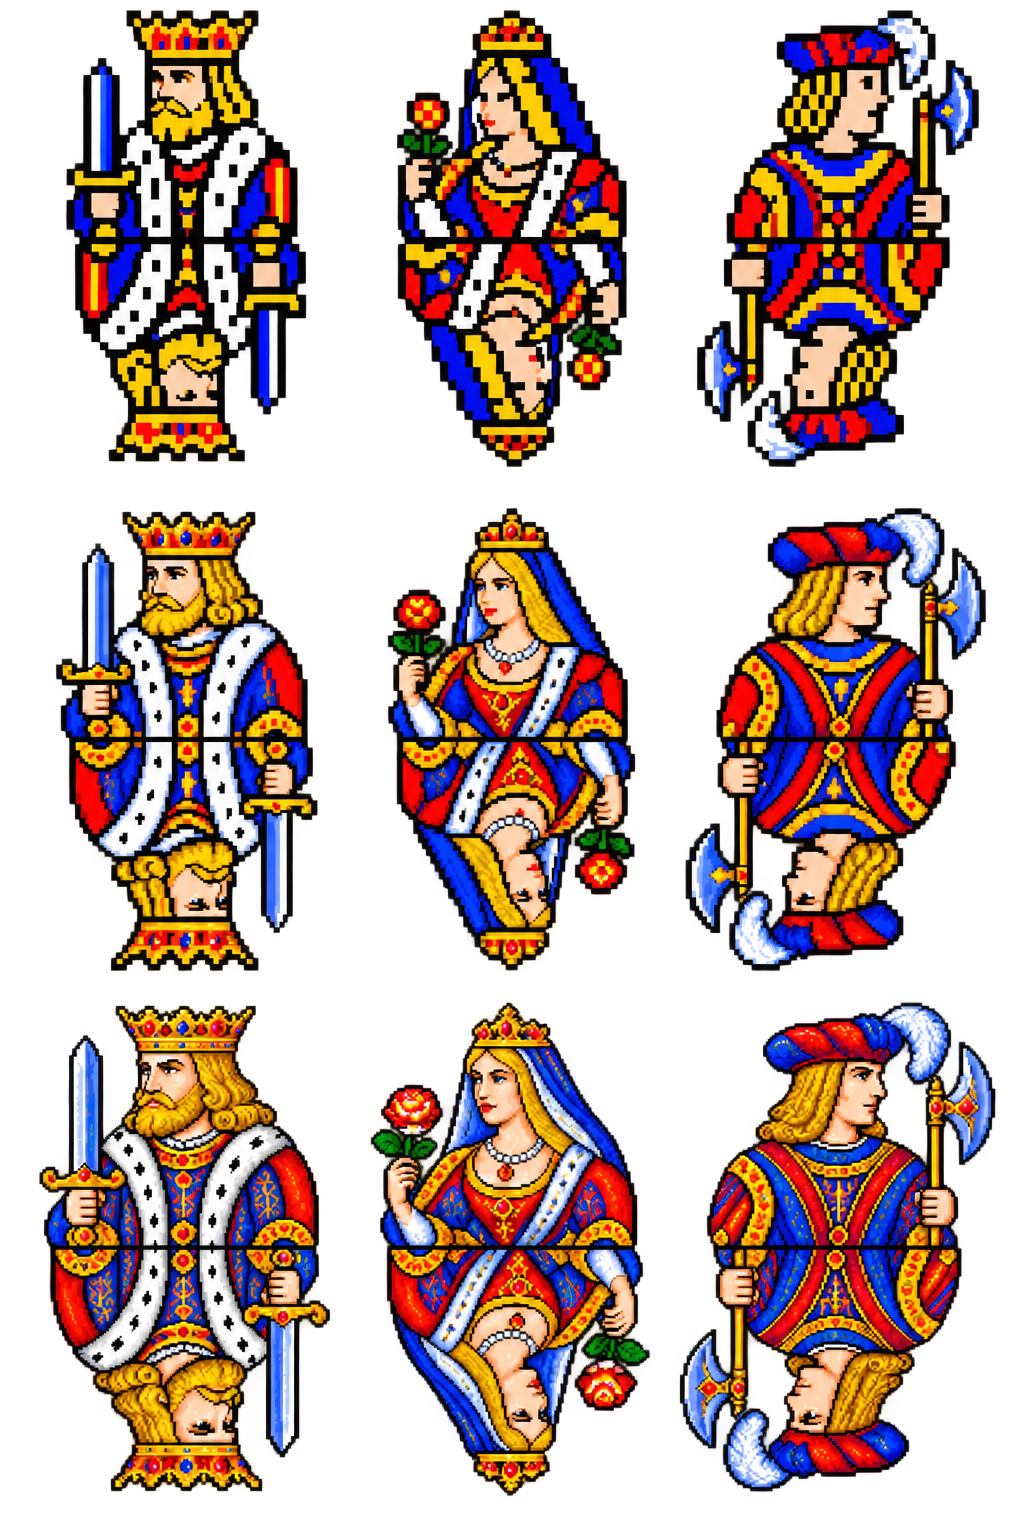
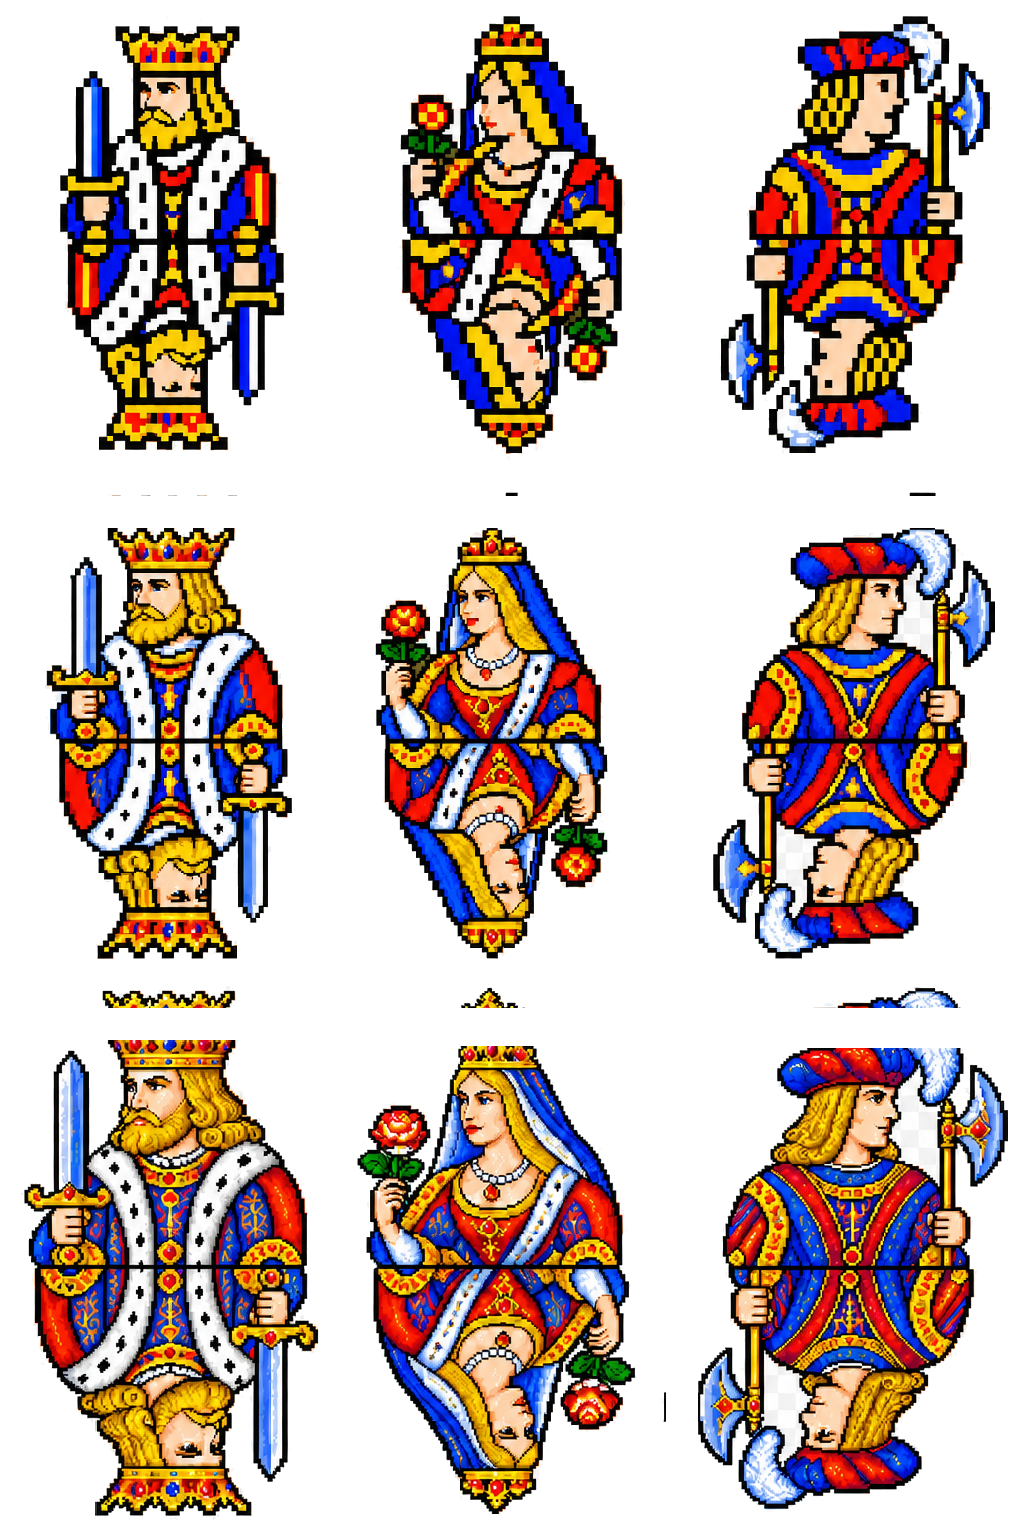
fix: isolate court sprite transparency

diff --git a/tests/courtArtAssets.test.js b/tests/courtArtAssets.test.js
@@ -16,6 +16,30 @@ const EXPECTED = {
   'high-detail': { width: 120, height: 224, paletteLimit: 64 },
 };
 
+test('court source atlas has binary transparency and clear cell gutters', async () => {
+  const source = PNG.sync.read(await readFile(fileURLToPath(
+    new URL('../assets/cards/courts/source/court-atlas.png', import.meta.url),
+  )));
+  const gutter = 16;
+  for (let row = 0; row < 3; row += 1) {
+    const top = Math.floor(row * source.height / 3);
+    const bottom = Math.floor((row + 1) * source.height / 3);
+    for (let column = 0; column < 3; column += 1) {
+      const left = Math.floor(column * source.width / 3);
+      const right = Math.floor((column + 1) * source.width / 3);
+      for (let y = top; y < bottom; y += 1) {
+        for (let x = left; x < right; x += 1) {
+          const alpha = source.data[(y * source.width + x) * 4 + 3];
+          assert.ok(alpha === 0 || alpha === 255, `partial source alpha ${alpha} at ${x},${y}`);
+          if (x < left + gutter || x >= right - gutter || y < top + gutter || y >= bottom - gutter) {
+            assert.equal(alpha, 0, `source gutter is opaque at ${x},${y}`);
+          }
+        }
+      }
+    }
+  }
+});
+
 test('court manifest defines nine distinct native assets', () => {
   assert.deepEqual(COURT_ART_LEVELS, Object.keys(EXPECTED));
   assert.deepEqual(COURT_RANKS, ['K', 'Q', 'J']);
